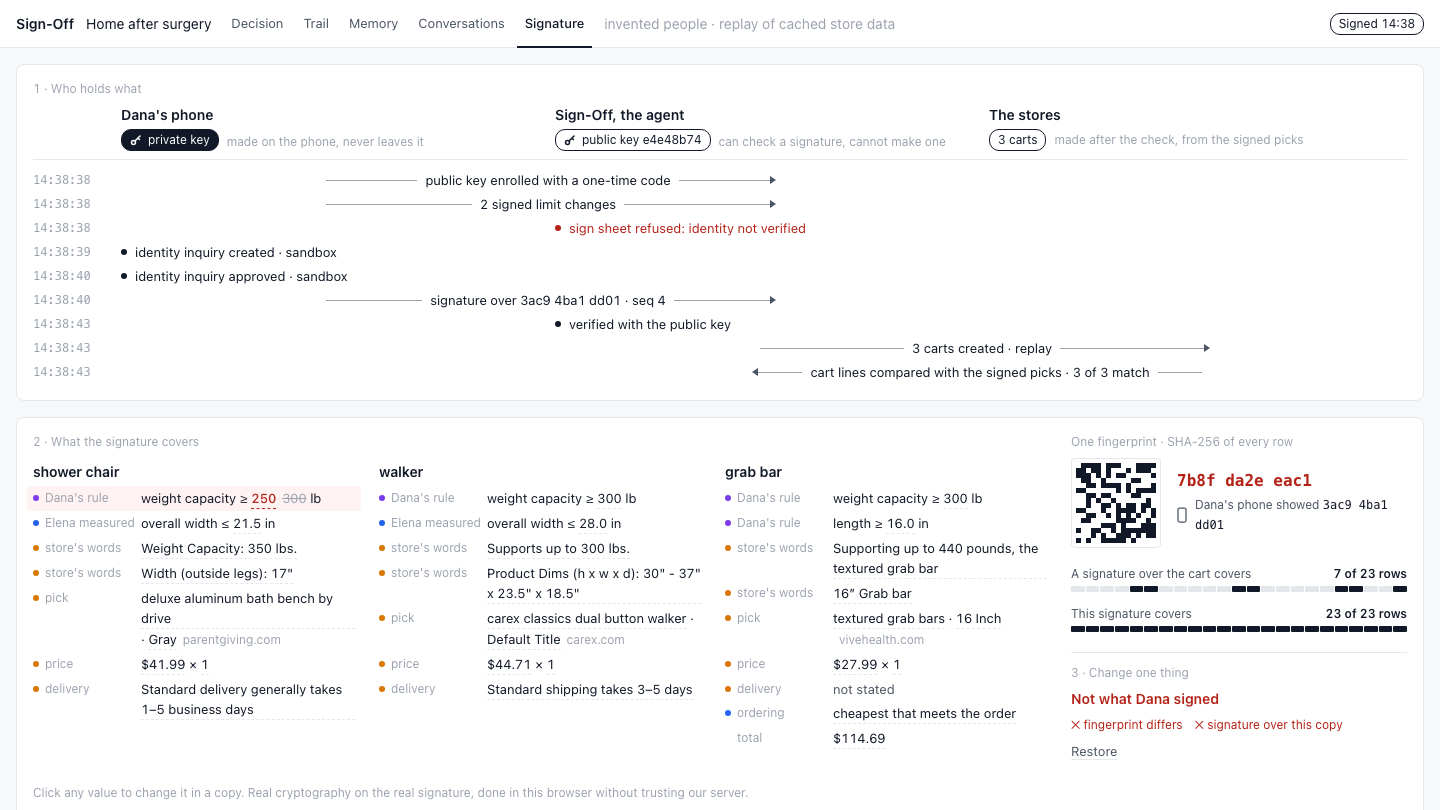
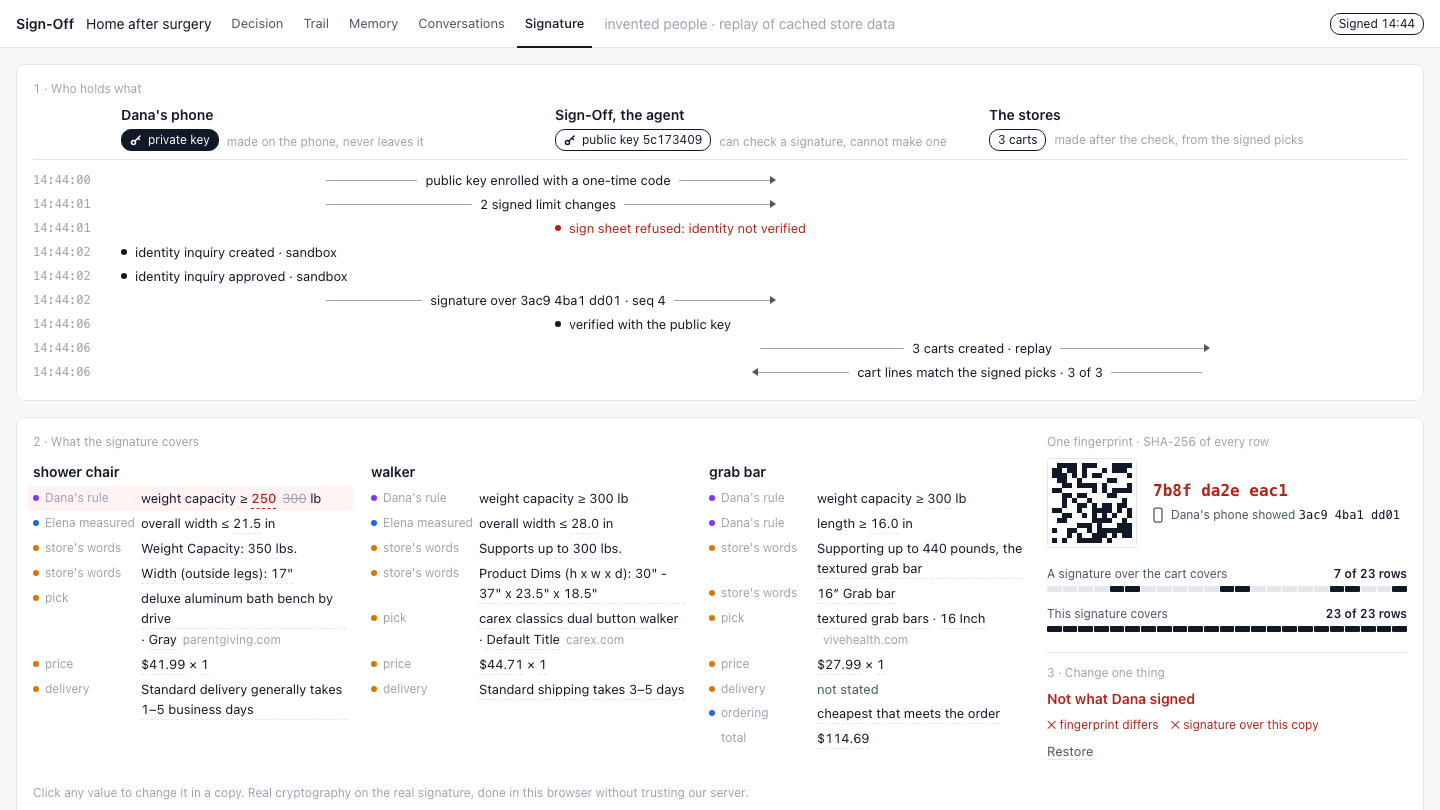
TALK page: rule chips first, one exchange per store, quiet not-sent, no times, one top bar. SEAL: change-one-thing first, the one-line summary in the proof

diff --git a/web/talk/talk.js b/web/talk/talk.js
@@ -1,8 +1,7 @@
 // Conversations: draws GET /api/talk/threads. Every string from a store is untrusted text: it is escaped, never run.
 const q = (s) => document.querySelector(s);
 const esc = (s) => String(s ?? "").replace(/[&<>"']/g, (c) => ({ "&": "&amp;", "<": "&lt;", ">": "&gt;", '"': "&quot;", "'": "&#39;" }[c]));
-const hhmm = (at) => (at ? new Date(at).toLocaleTimeString("en-GB", { hour: "2-digit", minute: "2-digit" }) : "");
-const ui = { data: null, id: new URLSearchParams(location.search).get("id"), open: new Set(), key: "" };
+const ui = { data: null, id: new URLSearchParams(location.search).get("id"), open: new Set(), more: new Set(), key: "" };
 if (new URLSearchParams(location.search).get("open")) ui.open.add(ui.id + ":" + new URLSearchParams(location.search).get("open"));
 
 // text with some character ranges wrapped in a tag: the answering words of a reply, the removed words of a draft
@@ -24,7 +23,7 @@ function renderTop() {
   const n = d.threads.length, cut = d.threads.reduce((a, t) => a + withheld(t), 0);
   q("#top").innerHTML = `<span class="brand">Sign-Off</span>
     <span class="sheet">${esc(d.title || d.sheet)}</span>
-    <nav class="tabs" aria-label="Views"><a href="/">Decision</a><a href="/trail/">Trail</a><a href="/talk/" aria-current="page">Conversations</a></nav>
+    <nav class="tabs" aria-label="Views"><a href="/">Decision</a><a href="/trail/">Trail</a><a href="/graph/">Memory</a><a href="/talk/" aria-current="page">Conversations</a><a href="/seal/">Signature</a></nav>
     <span class="meta">${n} with the stores' own agents</span>
     <span class="grow"></span>
     <span class="pill">${cut} withheld</span>`;
@@ -33,18 +32,24 @@ function renderTop() {
     <span class="cap">never</span>${d.rule.sealed.map((k) => `<span class="pill sealed">${mark(k)}</span>`).join("")}`;
 }
 
+// one conversation per store: the newest in which something was withheld and the rest was sent, else the newest
+// that was sent, else the newest; the store's other conversations are behind a count
+const sentAny = (t) => t.turns.some((turn) => turn.sent);
+function lead(threads) {
+  const ts = [...threads].reverse();
+  return ts.find((t) => withheld(t) && sentAny(t)) || ts.find(sentAny) || ts[0];
+}
+
 function renderList() {
-  const group = (origin, cap) => {
-    const rows = ui.data.threads.filter((t) => t.origin === origin).reverse();
-    if (!rows.length) return "";
-    return `<div class="cap">${cap}</div>` + rows.map((t) => {
-      const w = withheld(t), bad = notSent(t) && !t.turns.some((turn) => turn.sent);
-      return `<button class="item" data-id="${esc(t.id)}" aria-current="${t.id === ui.id}">
-        <span><b><i class="od store"></i>${esc(t.store)}</b><span class="muted small">${esc(t.title || "")}</span></span>
-        <span class="n ${bad ? "bad" : ""}">${bad ? "not sent" : w ? w + " withheld" : hhmm(t.asked_at)}</span></button>`;
-    }).join("");
-  };
-  q("#list").innerHTML = group("shopper", "The shopper asked") + group("agent", "The agent asked");
+  const stores = [...new Set(ui.data.threads.map((t) => t.store))];
+  const item = (t, sub) => `<button class="item ${sub ? "sub" : ""}" data-id="${esc(t.id)}" aria-current="${t.id === ui.id}">
+      <span>${sub ? "" : `<b><i class="od store"></i>${esc(t.store)}</b>`}<span class="muted small">${esc(sub ? (t.origin === "shopper" ? "the shopper asked" : "the agent asked") : t.title || "")}</span></span>
+      <span class="n">${!sentAny(t) ? "not sent" : withheld(t) ? withheld(t) + " withheld" : ""}</span></button>`;
+  q("#list").innerHTML = stores.map((store) => {
+    const all = ui.data.threads.filter((t) => t.store === store), first = lead(all);
+    const rest = all.filter((t) => t !== first).reverse(), open = ui.more.has(store) || rest.some((t) => t.id === ui.id);
+    return item(first) + (rest.length ? (open ? rest.map((t) => item(t, true)).join("") : `<button class="more" data-more="${esc(store)}">+${rest.length} more</button>`) : "");
+  }).join("");
 }
 
 function turnHtml(t, turn, prev) {
@@ -58,9 +63,9 @@ function turnHtml(t, turn, prev) {
     const lead = prev && prev.sent ? `Earlier I asked: "${prev.sent}" ` : "";
     const body = lead && turn.sent.startsWith(lead)
       ? `<span class="carried" title="${esc(lead)}">${esc(lead)}</span>${esc(turn.sent.slice(lead.length))}` : esc(turn.sent);
-    ours = `<div class="who ours-who">Sent ${hhmm(turn.reply_at)}</div><div class="msg ours">${body}</div>`;
+    ours = `<div class="who ours-who">Sent</div><div class="msg ours">${body}</div>`;
   } else {
-    ours = `<div class="who ours-who"><span class="bad">Not sent</span></div><div class="msg ours refused">${esc((turn.why || "").replace(/^./, (c) => c.toUpperCase()))}</div>`;
+    ours = `<div class="who ours-who">Not sent · the guard stopped it</div><div class="msg ours refused">${esc((turn.why || "").replace(/^./, (c) => c.toUpperCase()))}</div>`;
   }
   const row = turn.removed.length || said.length ? `<button class="wh" data-open="${esc(key)}" aria-expanded="${open}">Withheld ${marks}<span class="caret">${open ? "▴" : "▾"}</span></button>` : "";
   const behind = open ? `<div class="behind">${turn.n === 1 && t.origin === "shopper" ? `<span class="cap">The shopper's words</span>${marked(t.purpose, t.purpose_removed || [], "s")}` : ""}
@@ -73,7 +78,7 @@ function turnHtml(t, turn, prev) {
 function renderThread() {
   const t = ui.data.threads.find((x) => x.id === ui.id);
   if (!t) { q("#thread").innerHTML = `<div class="empty">No conversation yet</div>`; return; }
-  q("#thread").innerHTML = `<div class="row"><h1>${esc(t.title || t.store)}</h1><span class="cap"><i class="od store"></i>${esc(t.store)} · ${hhmm(t.asked_at)}</span></div>
+  q("#thread").innerHTML = `<div class="row"><h1>${esc(t.title || t.store)}</h1><span class="cap"><i class="od store"></i>${esc(t.store)}</span></div>
     ${t.error ? `<div class="msg refused">${esc(t.error)}</div>` : ""}
     ${t.turns.map((turn, i) => turnHtml(t, turn, t.turns[i - 1])).join("")}`;
 }
@@ -88,14 +93,14 @@ async function load() {
   ui.key = text;
   ui.data = JSON.parse(text);
   if (!ui.data.threads.some((t) => t.id === ui.id)) {  // open the newest conversation in which something was withheld and sent
-    const ts = [...ui.data.threads].reverse();
-    ui.id = (ts.find((t) => withheld(t) && t.turns.some((turn) => turn.sent)) || ts[0] || {}).id;
+    ui.id = (lead(ui.data.threads) || {}).id;
   }
   render();
 }
 
 document.addEventListener("click", (e) => {
-  const item = e.target.closest(".item"), wh = e.target.closest(".wh");
+  const item = e.target.closest(".item"), wh = e.target.closest(".wh"), more = e.target.closest(".more");
+  if (more) { ui.more.add(more.dataset.more); renderList(); }
   if (item) { ui.id = item.dataset.id; render(); }
   if (wh) { ui.open.has(wh.dataset.open) ? ui.open.delete(wh.dataset.open) : ui.open.add(wh.dataset.open); renderThread(); }
 });

diff --git a/web/seal/seal.js b/web/seal/seal.js
@@ -8,7 +8,7 @@ const clock = (at) => (at ? new Date(at).toLocaleTimeString("en-GB") : "");
 const short = (h) => (h || "").slice(0, 12).replace(/(.{4})(?=.)/g, "$1 ");
 const money = (cents) => "$" + (cents / 100).toFixed(2);
 const P = new URLSearchParams(location.search);
-const ui = { key: "", proof: null, groups: [], nodes: new Map(), edits: new Map(), real: null, now: null, editing: null, cartOnly: P.get("view") === "cart", played: false };
+const ui = { key: "", proof: null, groups: [], nodes: new Map(), edits: new Map(), real: null, now: null, editing: null, cartOnly: P.get("view") === "cart", played: P.has("still") };  // ?still: no arrival motion
 const LANE = { phone: 2, agent: 3, stores: 4 };
 const OPS = { ">=": "≥", "<=": "≤", "==": "=", ">": ">", "<": "<" };
 const ICON = {
@@ -66,7 +66,7 @@ function partHtml(p) {
 function renderRows() {
   const all = ui.groups.flatMap((g) => g.rows);
   q("#rows").className = "cols" + (ui.cartOnly ? " cartonly" : "");
-  q("#rows").innerHTML = `<div class="cap">2 · What the signature covers</div>` + ui.groups.map((g) => `<div class="grp"><h2>${esc(g.title)}</h2>${g.rows.map((r) => {
+  q("#rows").innerHTML = `<div class="cap">What the signature covers</div>` + ui.groups.map((g) => `<div class="grp"><h2>${esc(g.title)}</h2>${g.rows.map((r) => {
     const ids = [...(r.parts || []), ...(r.parts2 || [])].map((p) => p.id);
     const body = r.text ? `<span class="muted">${esc(r.text)}</span>` : `${r.lead ? esc(r.lead) + " " : ""}${(r.parts || []).map(partHtml).join(" · ")}${r.unit ? " " + esc(r.unit) : ""}${r.parts2 ? ` ${esc(r.lead2)} ${r.parts2.map(partHtml).join("")}` : ""}`;
     return `<div class="rw ${r.cart ? "cart" : ""} ${ids.some((id) => ui.edits.has(id)) ? "changed" : ""}"><i class="od ${r.owner}"></i><span class="lb">${esc(r.label)}</span><span class="vs">${body}${r.tail ? `<span class="tail">${esc(r.tail)}</span>` : ""}</span></div>`;
@@ -92,6 +92,7 @@ function renderCheck() {
   const onPhone = real.signedFingerprint || real.fingerprint;  // the phone computes it from the same canonical text
   const same = r.fingerprint === onPhone;
   q("#codes").innerHTML = `<span class="code ${same ? "" : "off"}" title="${esc(r.fingerprint)}">${esc(short(r.fingerprint))}</span>
+    <span class="sum">${esc(p.summary.text)}</span>
     <span class="phone">${ICON.phone}<span>${esc(who)}'s phone ${p.signed ? "showed" : "shows"} ${same ? "the same code" : `<code>${esc(short(onPhone))}</code>`}</span></span>`;
   const restore = edited ? `<button class="link" id="restore">Restore</button>` : "";
   let html;
@@ -139,7 +140,7 @@ function renderLanes() {
     return `<div class="lg ev ${ui.played ? "" : "play"}" style="--i:${i};--a:${Math.min(a, b)};--n:${Math.abs(a - b) + 1}">${t}<span class="go ${b > a ? "r" : "l"} ${e.bad ? "bad" : ""}"><i></i><span>${esc(e.text)}</span></span></div>`;
   });
   if (!p.signed) events.push(`<div class="lg ev gate ${ui.played ? "" : "play"}" style="--i:${p.events.length};--a:4"><time></time><span class="at"><i class="dot"></i>cart gate closed: no signature</span></div>`);
-  q("#lanes").innerHTML = `<div class="cap">1 · Who holds what</div>
+  q("#lanes").innerHTML = `<div class="cap">Who holds what</div>
     <div class="lg head"><span></span>
       <div class="lane"><b>${esc(who)}'s phone</b>${p.public_key ? holds("priv", ICON.key, "private key") : holds("none", ICON.key, "no key yet")}<span class="cap">made on the phone, never leaves it</span></div>
       <div class="lane"><b>Sign-Off, the agent</b>${p.public_key ? holds("", ICON.key, "public key " + p.public_key.key_id.slice(0, 8)) : holds("none", ICON.key, "no public key")}<span class="cap">can check a signature, cannot make one</span></div>
@@ -171,10 +172,10 @@ async function load() {
   ui.proof = proof;
   ui.groups = build(proof);
   ui.real = await check(proof, proof.canonical);
-  const preset = P.get("edit");  // ?edit=300:250 changes the first value shown as 300 to 250 (for a link or a screenshot)
+  const preset = P.get("edit");  // ?edit=300~250 changes the first value shown as 300 to 250 (for a link or a screenshot)
   if (preset && !ui.preset) {
     ui.preset = true;
-    const [from, to] = preset.split(":");
+    const [from, to] = preset.split("~");
     const hit = [...ui.nodes.keys()].find((id) => String(original(id)) === from);
     if (hit !== undefined) { commit(hit, to); renderTop(); renderLanes(); return; }
   }

diff --git a/web/talk/talk.css b/web/talk/talk.css
@@ -1,26 +1,28 @@
 /* Conversations: our agent and each store's own agent. Built on /screen/style.css (tokens, type, top bar, cards, pills);
    only the layout of this page is here. Sizes in rem on the 0.5rem grid; the only px are 1 px hairlines.
-   Monochrome: red is a message that was not sent, amber is the answering words, nothing else has a colour. */
+   Monochrome: red is only the removed words behind the click, amber is the answering words. */
 #talk { display: flex; flex-direction: column; height: 100vh; min-width: 55rem; }
 #talk .top { flex: none; }
 
 /* the band: the rule in force, as marks */
-.band { flex: none; display: flex; align-items: center; gap: 0.5rem; min-height: 3rem; padding: 0.5rem 1rem; background: var(--surface); border-bottom: 1px solid var(--line); white-space: nowrap; overflow: hidden; }
-.band .cap { margin-right: 0.25rem; }
+.band { flex: none; display: flex; align-items: center; gap: 0.5rem; min-height: 4rem; padding: 0.75rem 1rem; background: var(--surface); border-bottom: 1px solid var(--line); flex-wrap: wrap; white-space: nowrap; }
+.band .cap { margin-right: 0.25rem; font-size: 0.875rem; line-height: 1.25rem; color: var(--t1); font-weight: 500; }
+.band .pill { font-size: 1rem; line-height: 1.75rem; padding: 0 0.75rem; border-radius: 0.875rem; color: var(--t1); }
 .band .cap + .pill ~ .cap { margin-left: 1.5rem; }
-.pill.sealed { color: var(--t3); text-decoration: line-through; text-decoration-color: var(--line); }
+.band .pill.sealed { font-size: 0.875rem; padding: 0 0.625rem; color: var(--t3); text-decoration: line-through; text-decoration-color: var(--line); }
 
 .wrap { flex: 1; min-height: 0; display: grid; grid-template-columns: 20rem minmax(0, 1fr); gap: 1rem; padding: 1rem; }
 .card.list { display: block; padding: 0.5rem; overflow: auto; }
-.list .cap { padding: 0.5rem 0.5rem 0.25rem; }
-.list .cap:not(:first-child) { margin-top: 0.5rem; border-top: 1px solid var(--line); padding-top: 0.75rem; }
 .item { width: 100%; display: grid; grid-template-columns: minmax(0, 1fr) auto; column-gap: 0.5rem; align-items: center; min-height: 3.5rem; padding: 0.5rem; border-radius: 0.375rem; text-align: left; }
 .item:hover { background: var(--bg); }
 .item[aria-current="true"] { background: var(--bg); }
 .item b { font-weight: 500; }
 .item span { display: block; overflow: hidden; text-overflow: ellipsis; white-space: nowrap; }
 .item .n { font-size: 0.75rem; color: var(--t3); text-align: right; }
-.item .n.bad { color: var(--bad); }
+.item.sub { min-height: 2rem; padding-left: 1.375rem; }
+.more { display: block; margin: 0 0 0.25rem 1.375rem; padding: 0.125rem 0; font-size: 0.75rem; color: var(--t3); }
+.more:hover { color: var(--t1); }
+.item:not(.sub):not(:first-child) { margin-top: 0.25rem; }
 
 .card.thread { overflow: auto; gap: 1rem; padding: 1rem 1.5rem 1.5rem; }
 .thread h1 { margin: 0; font: 600 1.25rem/1.75rem var(--f); }
@@ -30,8 +32,8 @@
 .ours { align-self: flex-end; background: var(--bg); }
 .ours + .who, .who.ours-who { align-self: flex-end; }
 .theirs { align-self: flex-start; }
-.msg.refused { border-color: var(--bad); border-style: dashed; background: var(--surface); color: var(--t3); }
-.who .bad { color: var(--bad); font-weight: 500; }
+.msg.refused { border-color: var(--t3); border-style: dashed; background: var(--surface); color: var(--t2); }
+.who.ours-who { color: var(--t2); }
 .carried { display: block; overflow: hidden; text-overflow: ellipsis; white-space: nowrap; color: var(--t3); font-size: 0.8125rem; }
 
 /* what was withheld: a quiet row of marks; the removed words are behind a click */

diff --git a/web/seal/seal.css b/web/seal/seal.css
@@ -29,9 +29,9 @@
 .ev.gate .at { color: var(--t3); }
 .ev.gate .dot { background: none; border: 1px solid var(--t3); }
 @media (prefers-reduced-motion: no-preference) {
-  .ev.play { animation: arrive 0.35s ease-out both; animation-delay: calc(var(--i) * 0.14s); }
-  .pat i { transition: background-color 0.3s ease; }
+  .ev.play { animation: arrive 0.35s ease-out both; animation-delay: calc(var(--i) * 0.09s); }
 }
+.pat i { transition: background-color 0.3s ease; }  /* follows the viewer's own edit, so it moves whatever the OS setting */
 @keyframes arrive { from { opacity: 0; transform: translateY(-0.25rem); } }
 
 /* 2. the rows under the signature, one column per item, and the fingerprint beside them */
@@ -54,7 +54,7 @@
 .cols.cartonly .rw:not(.cart) { opacity: 0.2; }
 
 .print { flex: 0 1 22.5rem; min-width: 17rem; display: flex; flex-direction: column; gap: 0.5rem; }
-.print > .cap:not(:first-child) { margin-top: 0.5rem; padding-top: 0.75rem; border-top: 1px solid var(--line); }
+#status { margin-top: 0.25rem; padding-top: 0.75rem; border-top: 1px solid var(--line); }
 .fp { display: flex; gap: 1rem; align-items: center; }
 .pat { flex: none; display: grid; grid-template-columns: repeat(16, 0.3125rem); grid-auto-rows: 0.3125rem; padding: 0.25rem; border: 1px solid var(--line); border-radius: 0.25rem; }
 .pat i { background: var(--surface); }
@@ -80,7 +80,8 @@ button.cv:hover, button.cv[aria-pressed="true"] { background: var(--bg); }
 .strip { grid-column: 1 / -1; display: flex; gap: 1px; }
 .strip i { flex: 1; height: 0.375rem; background: var(--dot-out); border-radius: 1px; }
 .strip i.on { background: var(--t1); }
-#cover { display: flex; flex-direction: column; gap: 0.25rem; margin-top: 0.25rem; }
+#cover { display: flex; flex-direction: column; gap: 0.25rem; margin-top: 0.25rem; padding-top: 0.75rem; border-top: 1px solid var(--line); }
 .evs { display: flex; flex-direction: column; }
-.covers .foot { flex-basis: 100%; }
+.covers .lead { flex-basis: 100%; font-size: 0.875rem; line-height: 1.25rem; color: var(--t1); }
+.sum { font-size: 0.75rem; color: var(--t2); }
 .empty { color: var(--t3); }

diff --git a/web/seal/index.html b/web/seal/index.html
@@ -12,18 +12,17 @@
 <div id="seal">
   <header class="top" id="top"><span class="brand">Sign-Off</span></header>
   <main class="wrap">
-    <section class="card lanes" id="lanes" aria-label="Who holds what"></section>
-    <section class="card covers" aria-label="What the signature covers, and the check">
+    <section class="card covers" aria-label="Change one thing: what the signature covers, and the check">
+      <div class="cap lead">Change one thing. Click any value: this browser recomputes the fingerprint and checks the real signature, without trusting our server.</div>
       <div class="cols" id="rows"></div>
       <aside class="print" id="print">
         <div class="cap">One fingerprint · SHA-256 of every row</div>
         <div class="fp"><div class="pat" id="pat" aria-hidden="true"></div><div class="codes" id="codes"></div></div>
-        <div id="cover"></div>
-        <div class="cap">3 · Change one thing</div>
         <div id="status"></div>
+        <div id="cover"></div>
       </aside>
-      <div class="cap foot">Click any value to change it in a copy. Real cryptography on the real signature, done in this browser without trusting our server.</div>
     </section>
+    <section class="card lanes" id="lanes" aria-label="Who holds what"></section>
   </main>
 </div>
 <script type="module" src="/seal/seal.js"></script>

diff --git a/signoff/seal/api.py b/signoff/seal/api.py
@@ -65,11 +65,26 @@ def events(receipts: list, seal: dict) -> list:
                 if checked:
                     ok = sum(1 for c in checked if c["lines_checked"])
                     out.append({"at": carts[0].get("created_at") or r["at"], "from": "stores", "to": "agent", "bad": ok < len(checked),
-                                "text": "cart lines compared with the signed picks · %d of %d match" % (ok, len(checked))})
+                                "text": "cart lines match the signed picks · %d of %d" % (ok, len(checked))})
     for e in out:
         e.pop("what", None)
         e.pop("count", None)
     return out
+
+
+def summary(canonical: str, sheet_hash: str | None, name: str | None) -> dict:
+    """The one line for every place the signing shows: counted from the canonical sheet itself, with the fingerprint's
+    short code (the first twelve hex characters in fours). The phone and the screen can compute the same from their own
+    copy of the canonical sheet and its hash; the rule is in NOTES/SCREEN.md and NOTES/SIGN.md."""
+    lines = json.loads(canonical)["lines"]
+    picks = [l["pick"] for l in lines if l.get("pick")]
+    n = {"limits": sum(len(l["limits"]) for l in lines),
+         "quotes": sum(len(p["quotes"]) + (1 if p["delivery"].get("quote") else 0) for p in picks),
+         "picks": len(picks), "total_cents": json.loads(canonical)["total_cents"]}
+    word = lambda k, one: "%d %s" % (n[k], one if n[k] == 1 else one + "s")  # noqa: E731
+    return {**n, "code": _short(sheet_hash),
+            "text": "%s signs: %s · %s · %s · $%.2f" % (name or "The approver", word("limits", "limit"), word("quotes", "quote"),
+                                                        word("picks", "pick"), n["total_cents"] / 100)}
 
 
 def compose(state: dict, canonical: str, key, receipts: list, identity_required: bool) -> dict:
@@ -82,6 +97,7 @@ def compose(state: dict, canonical: str, key, receipts: list, identity_required:
         "shopper": {"name": (sheet.get("shopper") or {}).get("name")},
         "mode": state.get("mode"),
         "canonical": canonical, "sheet_hash": state.get("sheet_hash"), "covers": seal.get("covers") or [],
+        "summary": summary(canonical, state.get("sheet_hash"), (sheet.get("issuer") or {}).get("name")),
         "signed": bool(seal.get("signed")), "current": seal.get("current") if sig else None,
         "signature": sig and {"payload": sig.get("payload"), "sig": sig.get("sig"), "seq": sig.get("seq"),
                               "sheet_hash": sig.get("sheet_hash"), "at": sig.get("signed_at") or sig.get("at"),

diff --git a/tests/seal/test_seal.py b/tests/seal/test_seal.py
@@ -72,6 +72,14 @@ def test_events_follow_the_receipts_in_order(proof):
     assert texts[0] == "public key enrolled with a one-time code" and "2 signed limit changes" in texts
     assert [e["text"] for e in proof["events"] if e.get("bad")] == ["sign sheet refused: identity not verified"]
     assert texts.index("verified with the public key") < texts.index("3 carts created · replay") < len(texts) - 1
-    assert texts[-1] == "cart lines compared with the signed picks · 3 of 3 match"
+    assert texts[-1].startswith("cart lines ") and "3 of 3" in texts[-1]
     assert all(e["from"] in api.LANES and e["to"] in api.LANES for e in proof["events"])
     assert api.events([], {}) == []
+
+
+def test_the_one_line_is_counted_from_the_canonical_sheet(proof):
+    s = api.summary(proof["canonical"], proof["sheet_hash"], "Dana")
+    sheet = json.loads(proof["canonical"])
+    assert s["limits"] == sum(len(l["limits"]) for l in sheet["lines"]) == 6 and s["picks"] == 3 and s["quotes"] == 8
+    assert s["text"] == "Dana signs: 6 limits · 8 quotes · 3 picks · $114.69" and s["code"] == "3ac9 4ba1 dd01"
+    assert s["code"].replace(" ", "") == proof["sheet_hash"][:12]
